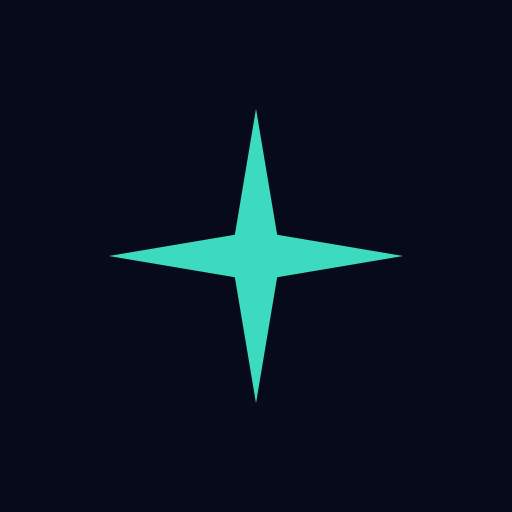
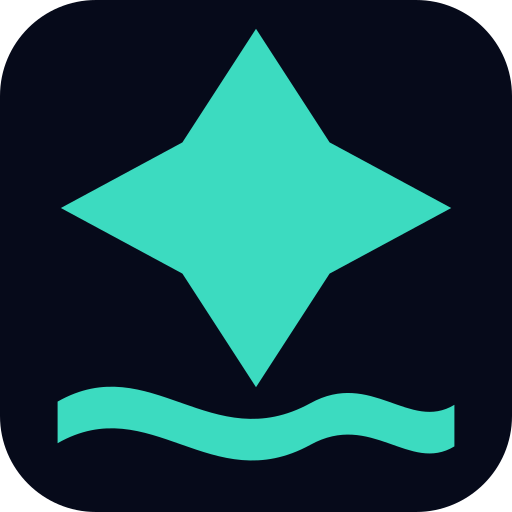
Make the mark iconic and add a hero example card (#21)
Replace the thin sparkle with a bold north-star-over-wave mark across
the header, favicons, and OG image. Strengthen lake contours and the
aurora band. Swap the empty founder stack for a labeled missed-call
example. Copy and tiers stay the same.

diff --git a/app/globals.css b/app/globals.css
@@ -25,33 +25,51 @@ body { background: var(--color-ink); color: var(--color-paper); -webkit-font-smo
 }
 .aurora {
   position: absolute;
-  left: 0;
-  right: 0;
-  top: -14%;
-  height: 54vh;
+  left: -20%;
+  width: 140%;
+  top: -6%;
+  height: 38vh;
   background:
-    radial-gradient(ellipse 80% 85% at 30% 18%, rgba(60, 219, 192, 0.22), transparent 70%),
-    radial-gradient(ellipse 55% 75% at 74% 6%, rgba(155, 140, 255, 0.16), transparent 70%),
-    radial-gradient(ellipse 46% 60% at 52% 0%, rgba(124, 242, 160, 0.12), transparent 66%);
+    linear-gradient(100deg,
+      transparent 6%,
+      rgba(60, 219, 192, 0.05) 18%,
+      rgba(60, 219, 192, 0.32) 36%,
+      rgba(124, 242, 160, 0.28) 50%,
+      rgba(60, 219, 192, 0.18) 64%,
+      rgba(155, 140, 255, 0.12) 78%,
+      transparent 92%),
+    radial-gradient(ellipse 80% 90% at 42% -10%, rgba(60, 219, 192, 0.20), transparent 68%);
+  filter: blur(32px);
   transform-origin: 50% 0%;
-  animation: aurora-drift 36s ease-in-out infinite alternate;
+  animation: aurora-drift 32s ease-in-out infinite alternate;
 }
 .contours {
   position: absolute;
-  inset: -10%;
-  width: 120%;
-  height: 120%;
-  background: url("/lake-contours.svg") center / cover no-repeat;
+  inset: -8%;
+  width: 116%;
+  height: 116%;
+  background: url("/lake-contours.svg") 50% 28% / cover no-repeat;
   opacity: 1;
-  animation: contour-drift 90s linear infinite alternate;
+  animation: contour-drift 80s linear infinite alternate;
 }
 @keyframes aurora-drift {
-  from { transform: translate3d(-2.5%, 0, 0) scale(1.02); opacity: 0.82; }
-  to { transform: translate3d(3%, 1.5%, 0) scale(1.08); opacity: 1; }
+  from { transform: translate3d(-4%, 0, 0) scaleX(1.02); opacity: 0.78; }
+  to { transform: translate3d(5%, 2%, 0) scaleX(1.08); opacity: 1; }
 }
 @keyframes contour-drift {
-  from { transform: translate3d(-1.5%, 0.8%, 0); }
-  to { transform: translate3d(1.8%, -0.8%, 0); }
+  from { transform: translate3d(-1.2%, 0.6%, 0); }
+  to { transform: translate3d(1.4%, -0.6%, 0); }
+}
+.example-step {
+  opacity: 0.42;
+  animation: example-step 9s ease-in-out infinite;
+}
+.example-step:nth-child(1) { animation-delay: 0s; }
+.example-step:nth-child(2) { animation-delay: 3s; }
+.example-step:nth-child(3) { animation-delay: 6s; }
+@keyframes example-step {
+  0%, 28% { opacity: 1; border-left-color: var(--color-teal); }
+  33%, 100% { opacity: 0.42; border-left-color: var(--color-line); }
 }
 .draw path.r { stroke-dasharray: 2400; stroke-dashoffset: 2400; animation: draw 2.4s cubic-bezier(.3,.6,.2,1) forwards; }
 .draw path.f { opacity: 0; animation: fade 1.2s ease forwards; }
@@ -64,5 +82,6 @@ body { background: var(--color-ink); color: var(--color-paper); -webkit-font-smo
 @media (prefers-reduced-motion: reduce) {
   .draw path.r { stroke-dashoffset: 0; animation: none; } .draw path.f { opacity: 1; animation: none; }
   .draw rect.k { transform: none; animation: none; } .blink { animation: none; }
-  .aurora, .contours { animation: none; }
+  .aurora, .contours { animation: none; filter: none; }
+  .example-step { opacity: 1; animation: none; border-left-color: var(--color-line); }
 }

diff --git a/e2e/smoke.spec.ts b/e2e/smoke.spec.ts
@@ -36,7 +36,15 @@ test.describe('Smoke Tests', () => {
 
     // Check footer and brand
     await expect(page.getByText(/© 2026 Minny Agents/)).toBeVisible();
-    await expect(page.getByText('Minny Agents').first()).toBeVisible();
+    await expect(page.getByText('Minny').first()).toBeVisible();
+    await expect(page.getByText('Agents').first()).toBeVisible();
+    await expect(page.getByText('An agent handling a missed restaurant call.')).toBeVisible();
+    await expect(page.getByText('Call missed').first()).toBeVisible();
+    await expect(page.getByText('Reply texted').first()).toBeVisible();
+    await expect(page.getByText('Table booked').first()).toBeVisible();
+    await expect(page.getByText(/Connor Barrett/)).toBeVisible();
+    await expect(page.getByText('Example').first()).toBeVisible();
+    await expect(page.getByText('Not a real business')).toBeVisible();
     await expect(page.locator('body')).not.toContainText('Northern Bytes');
     await expect(page.getByText('C01')).toHaveCount(0);
     await expect(page.locator('.scene .aurora')).toHaveCount(1);
@@ -228,5 +236,29 @@ test.describe('Smoke Tests', () => {
     await page.goto('/');
     await page.waitForLoadState('networkidle');
     await page.screenshot({ path: 'test-results/mobile-full-page.png', fullPage: true });
+  });
+
+  test('hero example card does not overlap headline or nav', async ({ page }) => {
+    async function box(locator: ReturnType<typeof page.locator>) {
+      const b = await locator.boundingBox();
+      expect(b, 'expected a bounding box').toBeTruthy();
+      return b!;
+    }
+    function overlaps(a: { x: number; y: number; width: number; height: number }, b: { x: number; y: number; width: number; height: number }) {
+      return !(a.x + a.width <= b.x || b.x + b.width <= a.x || a.y + a.height <= b.y || b.y + b.height <= a.y);
+    }
+
+    for (const size of [{ width: 1280, height: 800 }, { width: 375, height: 812 }]) {
+      await page.setViewportSize(size);
+      await page.goto('/');
+      await page.waitForLoadState('networkidle');
+      const header = await box(page.locator('header'));
+      const headline = await box(page.locator('h1'));
+      const card = await box(page.locator('.example-card'));
+      const cta = await box(page.getByRole("link", { name: /Get in touch/i }).last());
+      expect(overlaps(header, headline), `header vs h1 at ${size.width}`).toBe(false);
+      expect(overlaps(headline, card), `h1 vs example card at ${size.width}`).toBe(false);
+      expect(overlaps(cta, card), `CTA vs example card at ${size.width}`).toBe(false);
+    }
   });
 });

diff --git a/app/page.tsx b/app/page.tsx
@@ -1,5 +1,7 @@
+import ExampleCard from "./ExampleCard";
 import Fig from "./Fig";
 import Flow from "./Flow";
+import Mark from "./Mark";
 
 const SITE_URL = process.env.NEXT_PUBLIC_SITE_URL || "https://northern-bytes.vercel.app";
 
@@ -122,12 +124,13 @@ export default function Home() {
       <div className="relative z-10 mx-auto max-w-[1440px] border-x border-line">
         <header className="sticky top-0 z-50 border-b border-line bg-ink/80 backdrop-blur">
           <nav className="grid h-14 grid-cols-4 items-center md:grid-cols-12">
-            <a href="#" className="col-span-2 flex items-baseline gap-3 px-5 md:col-span-3 md:px-6">
-              <span className="inline-flex items-center gap-2">
-                <svg className="h-2.5 w-2.5 text-teal" viewBox="0 0 16 16" aria-hidden="true">
-                  <path fill="currentColor" d="M8 0l1.15 6.85L16 8l-6.85 1.15L8 16l-1.15-6.85L0 8l6.85-1.15L8 0z" />
-                </svg>
-                <span className="text-[15px] font-semibold tracking-[-0.01em]">Minny Agents</span>
+            <a href="#" className="col-span-2 flex items-center gap-3 px-5 md:col-span-3 md:px-6">
+              <span className="inline-flex items-center gap-2.5">
+                <Mark className="h-5 w-5 shrink-0 text-teal" />
+                <span className="text-[15px] tracking-[-0.015em]">
+                  <span className="font-bold">Minny</span>
+                  <span className="font-normal text-mute"> Agents</span>
+                </span>
               </span>
               <Mono className="hidden text-dim lg:inline">MA/26</Mono>
             </a>
@@ -158,17 +161,7 @@ export default function Home() {
             </p>
             <div className="mt-10"><Btn /></div>
           </div>
-          <aside className="col-span-4 border-t border-line px-5 py-6 md:col-span-3 md:border-l md:border-t-0 md:px-6 md:pt-24">
-            <dl className="grid grid-cols-2 gap-x-4 gap-y-5 md:grid-cols-1">
-              {[
-                ["Founder", "Connor Barrett"],
-                ["Industries", "Restaurants, shops, services"],
-                ["Location", "Minneapolis, MN"],
-              ].map(([k, v]) => (
-                <div key={k as string}><dt><Mono className="text-dim">{k}</Mono></dt><dd className="mt-1 font-mono text-[13px] text-paper">{v}</dd></div>
-              ))}
-            </dl>
-          </aside>
+          <ExampleCard />
         </section>
 
         <Sec id="what-we-build" n="01" label="What we build">

diff --git a/app/opengraph-image.tsx b/app/opengraph-image.tsx
@@ -1,4 +1,5 @@
 import { ImageResponse } from "next/og";
+import { INK, STAR_D, TEAL, WAVE_D } from "./mark";
 
 export const dynamic = "force-static";
 export const alt = "Minny Agents — Missed calls, piled-up reviews, invoices in your inbox.";
@@ -16,20 +17,22 @@ export default async function Image() {
           flexDirection: "column",
           alignItems: "flex-start",
           justifyContent: "center",
-          backgroundColor: "#060A1A",
+          backgroundColor: INK,
           backgroundImage:
-            "radial-gradient(ellipse 90% 55% at 50% -10%, rgba(60,219,192,0.20), transparent 58%), radial-gradient(ellipse 50% 40% at 12% 0%, rgba(155,140,255,0.12), transparent 55%), radial-gradient(ellipse 45% 35% at 88% 8%, rgba(124,242,160,0.10), transparent 50%)",
+            "linear-gradient(100deg, transparent 8%, rgba(60,219,192,0.22) 38%, rgba(124,242,160,0.16) 52%, transparent 82%), radial-gradient(ellipse 70% 50% at 50% -8%, rgba(60,219,192,0.18), transparent 60%)",
           padding: "80px",
           fontFamily: "sans-serif",
         }}
       >
-        <div style={{ display: "flex", alignItems: "center", gap: "16px", marginBottom: "36px" }}>
-          <svg width="28" height="28" viewBox="0 0 16 16">
-            <path fill="#3CDBC0" d="M8 0l1.15 6.85L16 8l-6.85 1.15L8 16l-1.15-6.85L0 8l6.85-1.15L8 0z" />
+        <div style={{ display: "flex", alignItems: "center", gap: "18px", marginBottom: "36px" }}>
+          <svg width="48" height="48" viewBox="0 0 32 32">
+            <path fill={TEAL} d={STAR_D} />
+            <path fill={TEAL} d={WAVE_D} />
           </svg>
-          <span style={{ color: "#F5F5F5", fontSize: "44px", fontWeight: 600, letterSpacing: "-0.02em" }}>
-            Minny Agents
-          </span>
+          <div style={{ display: "flex", alignItems: "baseline", fontSize: "44px", letterSpacing: "-0.02em" }}>
+            <span style={{ color: "#F5F5F5", fontWeight: 700 }}>Minny</span>
+            <span style={{ color: "rgba(234,240,246,0.72)", fontWeight: 500, marginLeft: "12px" }}>Agents</span>
+          </div>
         </div>
         <div
           style={{

diff --git a/app/ExampleCard.tsx b/app/ExampleCard.tsx
@@ -1,0 +1,53 @@
+function Mono({ children, className = "" }: { children: React.ReactNode; className?: string }) {
+  return <span className={`font-mono text-[11px] uppercase tracking-[0.08em] ${className}`}>{children}</span>;
+}
+
+const steps = [
+  {
+    k: "01",
+    title: "Call missed",
+    detail: "After-hours ring. Nobody at the host stand.",
+  },
+  {
+    k: "02",
+    title: "Reply texted",
+    detail: "Agent texts back: we can seat you tonight.",
+  },
+  {
+    k: "03",
+    title: "Table booked",
+    detail: "Guest replies yes. Reservation is on the book.",
+  },
+];
+
+export default function ExampleCard() {
+  return (
+    <aside className="col-span-4 border-t border-line px-5 py-6 md:col-span-3 md:border-l md:border-t-0 md:px-6 md:pb-10 md:pt-16">
+      <div className="example-card border border-teal/25 bg-ink2 p-4">
+        <div className="flex items-baseline justify-between gap-3">
+          <Mono className="text-teal">Example</Mono>
+          <Mono className="text-dim">Not a real business</Mono>
+        </div>
+        <p className="mt-3 text-[15px] font-medium leading-snug tracking-tight">
+          An agent handling a missed restaurant call.
+        </p>
+
+        <ol className="example-steps mt-5 space-y-0">
+          {steps.map((step) => (
+            <li key={step.k} className="example-step border-l-2 border-line py-2.5 pl-3">
+              <div className="flex items-baseline gap-2">
+                <Mono className="text-teal">{step.k}</Mono>
+                <p className="text-[13px] font-medium leading-snug">{step.title}</p>
+              </div>
+              <p className="mt-1 text-[12px] leading-relaxed text-mute">{step.detail}</p>
+            </li>
+          ))}
+        </ol>
+      </div>
+
+      <p className="mt-4 font-mono text-[11px] uppercase tracking-[0.08em] text-dim">
+        Connor Barrett · Minneapolis, MN
+      </p>
+    </aside>
+  );
+}

diff --git a/app/icon.tsx b/app/icon.tsx
@@ -1,4 +1,5 @@
 import { ImageResponse } from "next/og";
+import { INK, STAR_D, TEAL, WAVE_D } from "./mark";
 
 export const dynamic = "force-static";
 export const size = { width: 32, height: 32 };
@@ -14,11 +15,13 @@ export default function Icon() {
           display: "flex",
           alignItems: "center",
           justifyContent: "center",
-          backgroundColor: "#060A1A",
+          backgroundColor: INK,
+          borderRadius: 6,
         }}
       >
-        <svg width="22" height="22" viewBox="0 0 16 16">
-          <path fill="#3CDBC0" d="M8 0l1.15 6.85L16 8l-6.85 1.15L8 16l-1.15-6.85L0 8l6.85-1.15L8 0z" />
+        <svg width="28" height="28" viewBox="0 0 32 32">
+          <path fill={TEAL} d={STAR_D} />
+          <path fill={TEAL} d={WAVE_D} />
         </svg>
       </div>
     ),

diff --git a/app/apple-icon.tsx b/app/apple-icon.tsx
@@ -1,4 +1,5 @@
 import { ImageResponse } from "next/og";
+import { INK, STAR_D, TEAL, WAVE_D } from "./mark";
 
 export const dynamic = "force-static";
 export const size = { width: 180, height: 180 };
@@ -14,11 +15,12 @@ export default function AppleIcon() {
           display: "flex",
           alignItems: "center",
           justifyContent: "center",
-          backgroundColor: "#060A1A",
+          backgroundColor: INK,
         }}
       >
-        <svg width="112" height="112" viewBox="0 0 16 16">
-          <path fill="#3CDBC0" d="M8 0l1.15 6.85L16 8l-6.85 1.15L8 16l-1.15-6.85L0 8l6.85-1.15L8 0z" />
+        <svg width="132" height="132" viewBox="0 0 32 32">
+          <path fill={TEAL} d={STAR_D} />
+          <path fill={TEAL} d={WAVE_D} />
         </svg>
       </div>
     ),

diff --git a/app/mark.ts b/app/mark.ts
@@ -1,0 +1,12 @@
+/** Shared Minny Agents mark geometry. Bold 4-point north star over one lake wave. */
+export const MARK_VIEWBOX = "0 0 32 32";
+export const INK = "#060A1A";
+export const TEAL = "#3CDBC0";
+
+/** Filled 4-point star — thick waist so it holds at 16px. */
+export const STAR_D =
+  "M16 1.8L20.6 8.9L28.2 13L20.6 17.1L16 24.2L11.4 17.1L3.8 13L11.4 8.9Z";
+
+/** Filled wave ribbon under the star (Satori-safe, no stroke). */
+export const WAVE_D =
+  "M3.6 25.1C9.4 21.8 13.2 28.6 19.4 25.2C23.2 23.1 25.6 27 28.4 25.3L28.4 27.9C25.6 29.6 23.2 25.7 19.4 27.8C13.2 31.2 9.4 24.4 3.6 27.7Z";

diff --git a/app/Mark.tsx b/app/Mark.tsx
@@ -1,0 +1,23 @@
+import { MARK_VIEWBOX, STAR_D, WAVE_D } from "./mark";
+
+export default function Mark({
+  className,
+  title,
+}: {
+  className?: string;
+  title?: string;
+}) {
+  return (
+    <svg
+      className={className}
+      viewBox={MARK_VIEWBOX}
+      fill="currentColor"
+      aria-hidden={title ? undefined : true}
+      role={title ? "img" : "presentation"}
+    >
+      {title ? <title>{title}</title> : null}
+      <path d={STAR_D} />
+      <path d={WAVE_D} />
+    </svg>
+  );
+}
